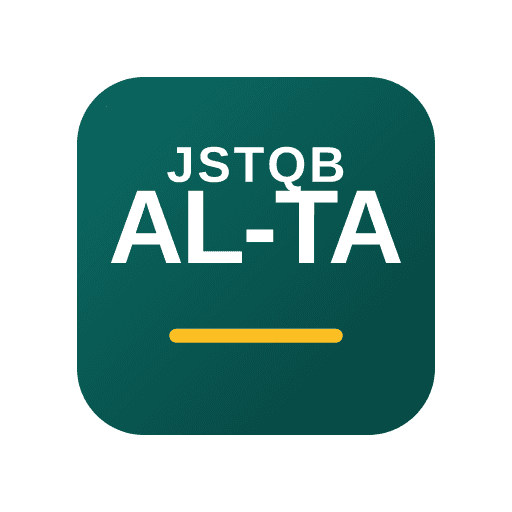
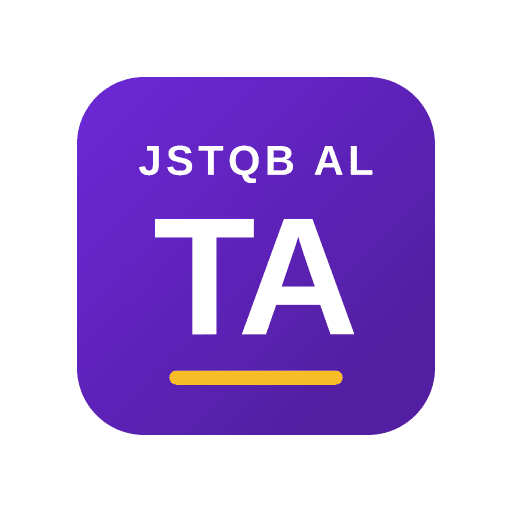
AL-TA の配色とロゴを FL と見分けやすく変更
- AL-TA のブランドカラーをティールからバイオレットに（ライト・ダークとも 4.5:1 以上）
- ロゴを大きな「TA」の文字に作り直し、PWA アイコンと OGP 画像も更新
- 両サイトのナビゲーションにロゴを出し、上端にブランド色の帯を付ける
- 配色とロゴの方針を CLAUDE.md に記録

Claude-Session: https://claude.ai/code/session_01XKdeC9Zwu72ngUkCnquCFi

diff --git a/sites/al-ta/docs/.vitepress/theme/al-ta.css b/sites/al-ta/docs/.vitepress/theme/al-ta.css
@@ -1,75 +1,77 @@
 /**
  * AL-TA サイトのブランドカラー上書き
- * Primary: 深いティール (#0b6b63)
- * FL サイトの青 (#0b5c9c) と見分けがつくよう、Advanced Level は落ち着いた深緑・ティール系にする。
+ * Primary: 深いバイオレット (#6d28d9)
+ * FL サイトの青 (#0b5c9c) とひと目で見分けがつくよう、Advanced Level は紫系にする。
+ * ドリルが意味のある色として使う緑（正解）・赤とオレンジ（不正解・むずかしい）・黄（ふつう）とも重ならない。
+ * 色だけに頼らないよう、ロゴは FL の「JSTQB」に対して大きな「TA」の文字で区別する。
  * 共通 CSS（packages/shared/theme/custom.css）は変更せず、同じ変数をここで上書きする。
  * すべてのテキスト色・ボタンは WCAG AA (4.5:1) 以上を満たす（比は相対輝度から算出）。
  *
  * コントラスト比（ライト: 白背景 #ffffff 対象）
- *   brand-1  #0b6b63: 6.37:1 ✅（本文リンク）
- *   brand-2  #095750: 8.43:1 ✅
- *   brand-3  #07423e: 11.30:1 ✅
- *   白文字 on #0b6b63: 6.37:1 ✅（ボタン）
- *   brand-1 on brand-soft（rgba(11,107,99,.12) を白 / #f6f6f7 / #f1f1f2 に重ねた色）:
- *     5.32:1 / 4.95:1 / 4.76:1 ✅
- *   tip ブロック（背景 #e0f2ef）: 文字 #07423e 9.75:1 ✅、brand-1 5.49:1 ✅
+ *   brand-1  #6d28d9: 7.10:1 ✅（本文リンク）
+ *   brand-2  #5b21b6: 8.98:1 ✅
+ *   brand-3  #4c1d95: 10.95:1 ✅
+ *   白文字 on #6d28d9: 7.10:1 ✅（ボタン）
+ *   brand-1 on brand-soft（rgba(109,40,217,.12) を白 / #f6f6f7 / #f1f1f2 に重ねた色）:
+ *     5.82:1 / 5.41:1 / 5.20:1 ✅
+ *   tip ブロック（背景 #f5f3ff）: 文字 #4c1d95 9.99:1 ✅、brand-1 6.48:1 ✅
  *
  * コントラスト比（ダーク: 背景 #1b1b1f 対象）
- *   brand-1  #5eead4: 11.61:1 ✅（本文リンク）
- *   brand-2  #99f6e4: 13.62:1 ✅
- *   brand-3  #ccfbf1: 15.24:1 ✅
- *   brand-1 on brand-soft（rgba(94,234,212,.16) を #1b1b1f に重ねた色）: 7.91:1 ✅
- *   tip ブロック（背景 rgba(11,107,99,.20)）: 文字 #ccfbf1 13.10:1 ✅
- *   ボタン: ライトと同じ白文字 on #0b6b63 6.37:1 ✅（共通 CSS はダークでもボタン色を上書きしない）
+ *   brand-1  #c4b5fd: 9.30:1 ✅（本文リンク）
+ *   brand-2  #ddd6fe: 12.36:1 ✅
+ *   brand-3  #ede9fe: 14.46:1 ✅
+ *   brand-1 on brand-soft（rgba(196,181,253,.16) を #1b1b1f に重ねた色）: 6.58:1 ✅
+ *   tip ブロック（背景 rgba(109,40,217,.20) → #2b1e44）: 文字 #ede9fe 12.89:1 ✅、brand-1 8.29:1 ✅
+ *   ボタン: ライトと同じ白文字 on #6d28d9 7.10:1 ✅（共通 CSS はダークでもボタン色を上書きしない）
  */
 
 :root {
-  --vp-c-brand-1: #0b6b63;
-  --vp-c-brand-2: #095750;
-  --vp-c-brand-3: #07423e;
-  --vp-c-brand-soft: rgba(11, 107, 99, 0.12);
+  --vp-c-brand-1: #6d28d9;
+  --vp-c-brand-2: #5b21b6;
+  --vp-c-brand-3: #4c1d95;
+  --vp-c-brand-soft: rgba(109, 40, 217, 0.12);
 
-  --vp-button-brand-bg: #0b6b63;
-  --vp-button-brand-hover-bg: #095750;
-  --vp-button-brand-active-bg: #07423e;
+  --vp-button-brand-bg: #6d28d9;
+  --vp-button-brand-hover-bg: #5b21b6;
+  --vp-button-brand-active-bg: #4c1d95;
 
-  --vp-custom-block-tip-text: #07423e;
-  --vp-custom-block-tip-bg: #e0f2ef;
-  --vp-custom-block-tip-code-bg: rgba(11, 107, 99, 0.14);
+  --vp-custom-block-tip-text: #4c1d95;
+  --vp-custom-block-tip-bg: #f5f3ff;
+  --vp-custom-block-tip-code-bg: rgba(109, 40, 217, 0.12);
 }
 
 .dark {
-  --vp-c-brand-1: #5eead4;
-  --vp-c-brand-2: #99f6e4;
-  --vp-c-brand-3: #ccfbf1;
-  --vp-c-brand-soft: rgba(94, 234, 212, 0.16);
+  --vp-c-brand-1: #c4b5fd;
+  --vp-c-brand-2: #ddd6fe;
+  --vp-c-brand-3: #ede9fe;
+  --vp-c-brand-soft: rgba(196, 181, 253, 0.16);
 
-  --vp-custom-block-tip-text: #ccfbf1;
-  --vp-custom-block-tip-bg: rgba(11, 107, 99, 0.2);
-  --vp-custom-block-tip-code-bg: rgba(11, 107, 99, 0.3);
+  --vp-custom-block-tip-text: #ede9fe;
+  --vp-custom-block-tip-bg: rgba(109, 40, 217, 0.2);
+  --vp-custom-block-tip-code-bg: rgba(109, 40, 217, 0.3);
 }
 
 /* ===========================================================================
- * ドリルのボタン色（packages/shared の変数を AL-TA のティールで上書き）
+ * ドリルのボタン色（packages/shared の変数を AL-TA のバイオレットで上書き）
  * 白文字とのコントラスト比:
- *   ライト: 一覧のボタン #0b6b63 6.37:1（hover #095750 8.43:1）
- *           次へ・もう一度 #07423e 11.30:1（hover #095750 8.43:1）
- *   ダーク: #0f766e 5.47:1（hover #115e59 7.58:1）
- * フォーカス枠: ライト #0b6b63（白背景に 6.37:1）、ダーク #5eead4（背景 #1b1b1f に 11.61:1）
+ *   ライト: 一覧のボタン #6d28d9 7.10:1（hover #5b21b6 8.98:1）
+ *           次へ・もう一度 #4c1d95 10.95:1（hover #5b21b6 8.98:1）
+ *   ダーク: #6d28d9 7.10:1（hover #5b21b6 8.98:1）
+ * フォーカス枠: ライト #6d28d9（白背景に 7.10:1）、ダーク #c4b5fd（背景 #1b1b1f に 9.30:1）
  * =========================================================================== */
 :root {
-  --quiz-action-bg: #0b6b63;
-  --quiz-action-hover-bg: #095750;
-  --quiz-action-focus: #0b6b63;
-  --quiz-next-bg: #07423e;
-  --quiz-next-hover-bg: #095750;
-  --quiz-next-focus: #0b6b63;
+  --quiz-action-bg: #6d28d9;
+  --quiz-action-hover-bg: #5b21b6;
+  --quiz-action-focus: #6d28d9;
+  --quiz-next-bg: #4c1d95;
+  --quiz-next-hover-bg: #5b21b6;
+  --quiz-next-focus: #6d28d9;
 }
 .dark {
-  --quiz-action-bg: #0f766e;
-  --quiz-action-hover-bg: #115e59;
-  --quiz-action-focus: #5eead4;
-  --quiz-next-bg: #0f766e;
-  --quiz-next-hover-bg: #115e59;
-  --quiz-next-focus: #5eead4;
+  --quiz-action-bg: #6d28d9;
+  --quiz-action-hover-bg: #5b21b6;
+  --quiz-action-focus: #c4b5fd;
+  --quiz-next-bg: #6d28d9;
+  --quiz-next-hover-bg: #5b21b6;
+  --quiz-next-focus: #c4b5fd;
 }

diff --git a/packages/shared/theme/custom.css b/packages/shared/theme/custom.css
@@ -201,3 +201,22 @@
   --quiz-next-bg: #2563eb;
   --quiz-next-hover-bg: #1d4ed8;
 }
+
+/* ===========================================================================
+ * サイトの見分け: ナビゲーションの上端にブランド色の帯を出す
+ *
+ * 同じテーマを使う複数サイト（FL は青、AL-TA は紫）を、ページを開いた瞬間に
+ * 見分けられるようにする。装飾なので文字のコントラスト比の対象外だが、
+ * 色だけに頼らないよう、ナビゲーションにはサイトごとのロゴ（文字が違う）も出す。
+ * =========================================================================== */
+.VPNav::before {
+  content: "";
+  position: absolute;
+  top: 0;
+  left: 0;
+  right: 0;
+  height: 4px;
+  background: var(--vp-c-brand-1);
+  z-index: 100;
+  pointer-events: none;
+}

diff --git a/sites/al-ta/docs/.vitepress/theme/index.ts b/sites/al-ta/docs/.vitepress/theme/index.ts
@@ -1,5 +1,5 @@
 // テーマ本体（ドリル部品・共通 CSS・計測）は全サイト共通の packages/shared にある。
-// このサイトはブランドカラー（深緑・ティール系）だけを al-ta.css で上書きする。
+// このサイトはブランドカラー（バイオレット系）だけを al-ta.css で上書きする。
 // import の順序で CSS の読み込み順が決まるため、共通テーマの re-export を先に書く。
 export { default } from "@jstqb/shared/theme";
 import "./al-ta.css";

diff --git a/CLAUDE.md b/CLAUDE.md
@@ -205,6 +205,11 @@ sites/<site>/
 - Vercel はサイトごとにプロジェクトを分ける。FL の既存プロジェクトはルートの `vercel.json`（Root Directory を変えずに `sites/fl` をビルド）を使う。新しいサイトのプロジェクトは Root Directory を `sites/<site>` にして作る。
 - Root Directory を `sites/<site>` にしたプロジェクトでは、`sites/<site>/vercel.json` の `installCommand`（`cd ../.. && npm ci`）でリポジトリのルートから依存関係を入れる。サイトのディレクトリで `npm install` すると、そのサイト自身の依存（`@jstqb/shared`）しか入らず、ルートの devDependencies にある VitePress が見つからずにビルドが失敗するため。
 
+## サイトの見分け方（見た目）
+
+- サイトごとにブランドカラーを変える（FL は青、AL-TA は紫）。新しいサイトは、既存サイトの色と、ドリルが使う意味のある色（緑＝正解、赤・オレンジ＝不正解・むずかしい、黄＝ふつう）のどちらとも重ならない色相を選ぶ。テキストとボタンの色はライト・ダークとも 4.5:1 以上を保ち、比をサイトの CSS の冒頭に記録する。
+- 色だけに頼らないよう、ロゴは文字で区別する（FL「JSTQB」、AL-TA「TA」）。ナビゲーションにはロゴを出し（`themeConfig.logo`）、上端にブランド色の帯を出す（共通 CSS）。
+
 ## Markdown の太字（強調）について
 
 日本語では `**強調**` の閉じ `**` の直前が全角閉じ括弧（`）」】〉》`）だと、素の markdown-it では強調が描画されない（CJK flanking 問題）。このプロジェクトは `markdown-it-cjk-friendly` を導入して解消済みのため、本文では `**用語（よみ）**` のような書き方をしてもよい。ただし**ドリル（quiz）では `**` を使わない**。

diff --git a/sites/al-ta/CLAUDE.md b/sites/al-ta/CLAUDE.md
@@ -10,6 +10,11 @@
 - 配点は **K2=1 点・K3=2 点・K4=3 点**。K1 の出題はないが、各章の冒頭の「キーワード」は ISTQB 用語集の名称と定義を覚えていることが前提。
 - **Foundation Level（CTFL v4.0.1）の知識が前提**。FL の内容（同値分割法・境界値分析・状態遷移テストの基本・デシジョンテーブルの基本など）は説明し直さず、FL 教材の該当レッスンにリンクする。
 
+## 見た目（ブランドカラーとロゴ）
+
+- ブランドカラーは**バイオレット**（ライト `#6d28d9`、ダーク `#c4b5fd`）。FL の青と見分けやすく、ドリルが意味のある色として使う緑（正解）・赤とオレンジ（不正解・むずかしい）・黄（ふつう）とも重ならない色にした。値と各組み合わせのコントラスト比（すべて 4.5:1 以上）は `docs/.vitepress/theme/al-ta.css` の冒頭に記録している。
+- ロゴは大きな「TA」の文字（FL は「JSTQB」）。色を見分けにくい人にも、文字の形で区別できるようにするため。ロゴを変えたら `npm run pwa:icons -w sites/al-ta` で PWA アイコンを作り直し、OGP 画像（`docs/public/ogp.png`、1200×630）も同じ配色で作り直す。SVG の文字は `dominant-baseline` を使わず、ベースラインの y 座標で配置する（PNG への変換で位置がずれるため）。
+
 ## 表記の規約（AL-TA）
 
 - 半角の数字と日本語の間には半角スペースを入れる（「5 つ」「1 件」「第 3 章」「例題 1」）。FL 教材は「5つ」の形式なので、FL から文章を流用するときは直す。ただしトップ目次・用語集の章見出し（「第1章」）は別の様式として据え置く。

diff --git a/sites/al-ta/SPRINTLOG.md b/sites/al-ta/SPRINTLOG.md
@@ -40,3 +40,10 @@
   - レッスンの図を縦向き・ラベルの折り返し・間隔の調整でスマホ幅に近づけた。375px でライト・ダークの全ページを撮影して確認。
 - **Vercel**: AL-TA 用のプロジェクトを作成してもらい、Root Directory を `sites/al-ta` に設定してもらった。サイトのディレクトリでの `npm install` ではルートの VitePress が入らずデプロイが失敗したため、`sites/<site>/vercel.json` に `installCommand`（`cd ../.. && npm ci`）を追加して解消。FL・AL-TA とも本番デプロイの成功を確認し、main に反映した。
 
+### Sprint B4: FL と見分けやすい配色とロゴ
+
+- ブランドカラーをティールからバイオレットに変更（ライト `#6d28d9`、ダーク `#c4b5fd`）。ティールは FL の青と近く、見分けにくかった。紫は、ドリルが意味のある色として使う緑・赤・オレンジ・黄とも重ならない。リンク・ボタン・tip ブロック・ドリルのボタンのコントラスト比をライト・ダークとも計算し、すべて 4.5:1 以上（最小 5.20:1）。
+- ロゴを大きな「TA」の文字に作り直し、PWA アイコンと OGP 画像も作り直した。色を見分けにくい人にも文字の形で FL（「JSTQB」）と区別できる。
+- 両サイトのナビゲーションにロゴを出し、上端にブランド色の帯を付けた（共通 CSS）。ページを開いた瞬間にどちらのサイトかわかる。
+- 375px と 1280px、ライト・ダークで画面を撮影して確認。
+

diff --git a/sites/al-ta/README.md b/sites/al-ta/README.md
@@ -55,7 +55,7 @@ docs/
     config.mts                 サイト設定（nav・サイドバー・PWA・SEO）
     lessons.mts                章・レッスンの定義（サイドバーの元データ）
     theme/index.ts             共通テーマ（packages/shared/theme）の読み込み
-    theme/al-ta.css            ブランドカラー（深いティール）の上書き
+    theme/al-ta.css            ブランドカラー（深いバイオレット）の上書き
 FACTCHECK.md                   事実確認の台帳
 SPRINTLOG.md                   開発の経緯
 ```
